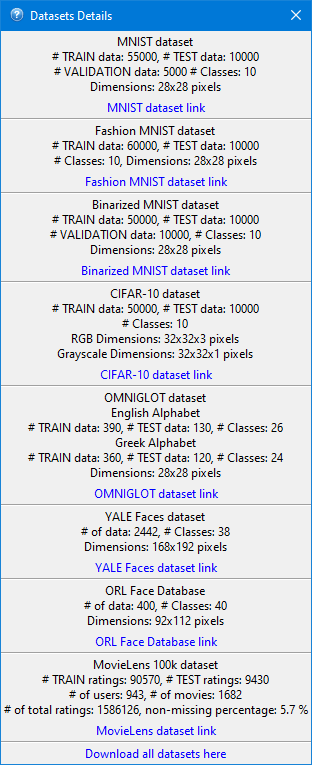
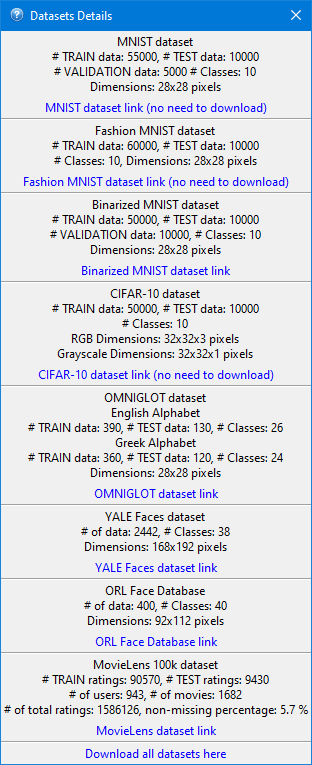
Update the text in the `datasets_details_window`

diff --git a/vaes_gui.py b/vaes_gui.py
@@ -341,7 +341,7 @@ def datasets_details_window():
              'Dimensions: 28x28 pixels'
     )
     mnist_ds_label.pack()
-    mnist_ds_link = tk.Label(window, text='MNIST dataset link', fg='blue', cursor='hand2')
+    mnist_ds_link = tk.Label(window, text='MNIST dataset link (no need to download)', fg='blue', cursor='hand2')
     mnist_ds_link.pack()
     mnist_ds_link.bind('<Button-1>', mnist_link_command)
     sep = ttk.Separator(window, orient='horizontal')
@@ -354,7 +354,12 @@ def datasets_details_window():
              '# Classes: 10, Dimensions: 28x28 pixels'
     )
     fashion_mnist_ds_label.pack()
-    fashion_mnist_ds_link = tk.Label(window, text='Fashion MNIST dataset link', fg='blue', cursor='hand2')
+    fashion_mnist_ds_link = tk.Label(
+        window,
+        text='Fashion MNIST dataset link (no need to download)',
+        fg='blue',
+        cursor='hand2'
+    )
     fashion_mnist_ds_link.pack()
     fashion_mnist_ds_link.bind('<Button-1>', fashion_mnist_link_command)
     sep = ttk.Separator(window, orient='horizontal')
@@ -383,7 +388,7 @@ def datasets_details_window():
              'Grayscale Dimensions: 32x32x1 pixels'
     )
     cifar10_10_ds_label.pack()
-    cifar10_10_link = tk.Label(window, text='CIFAR-10 dataset link', fg='blue', cursor='hand2')
+    cifar10_10_link = tk.Label(window, text='CIFAR-10 dataset link (no need to download)', fg='blue', cursor='hand2')
     cifar10_10_link.pack()
     cifar10_10_link.bind('<Button-1>', cifar10_link_command)
     sep = ttk.Separator(window, orient='horizontal')
